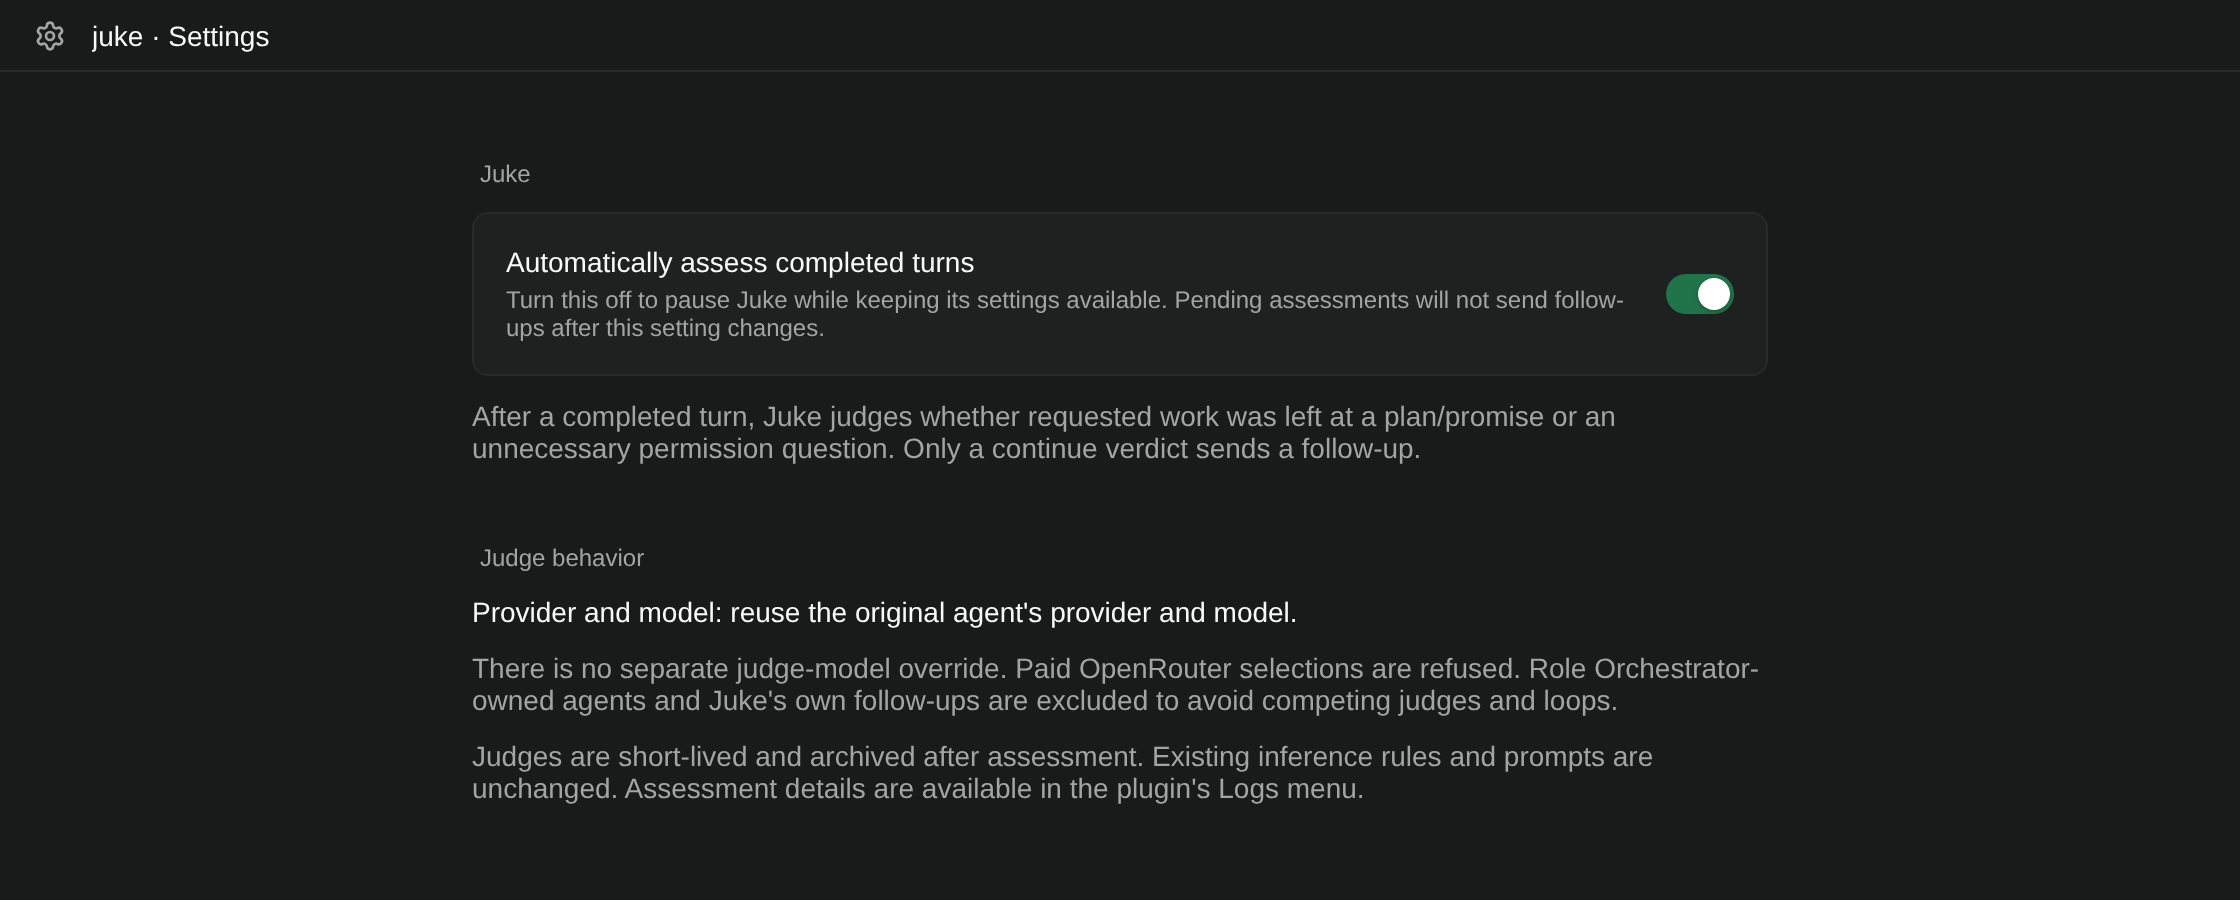
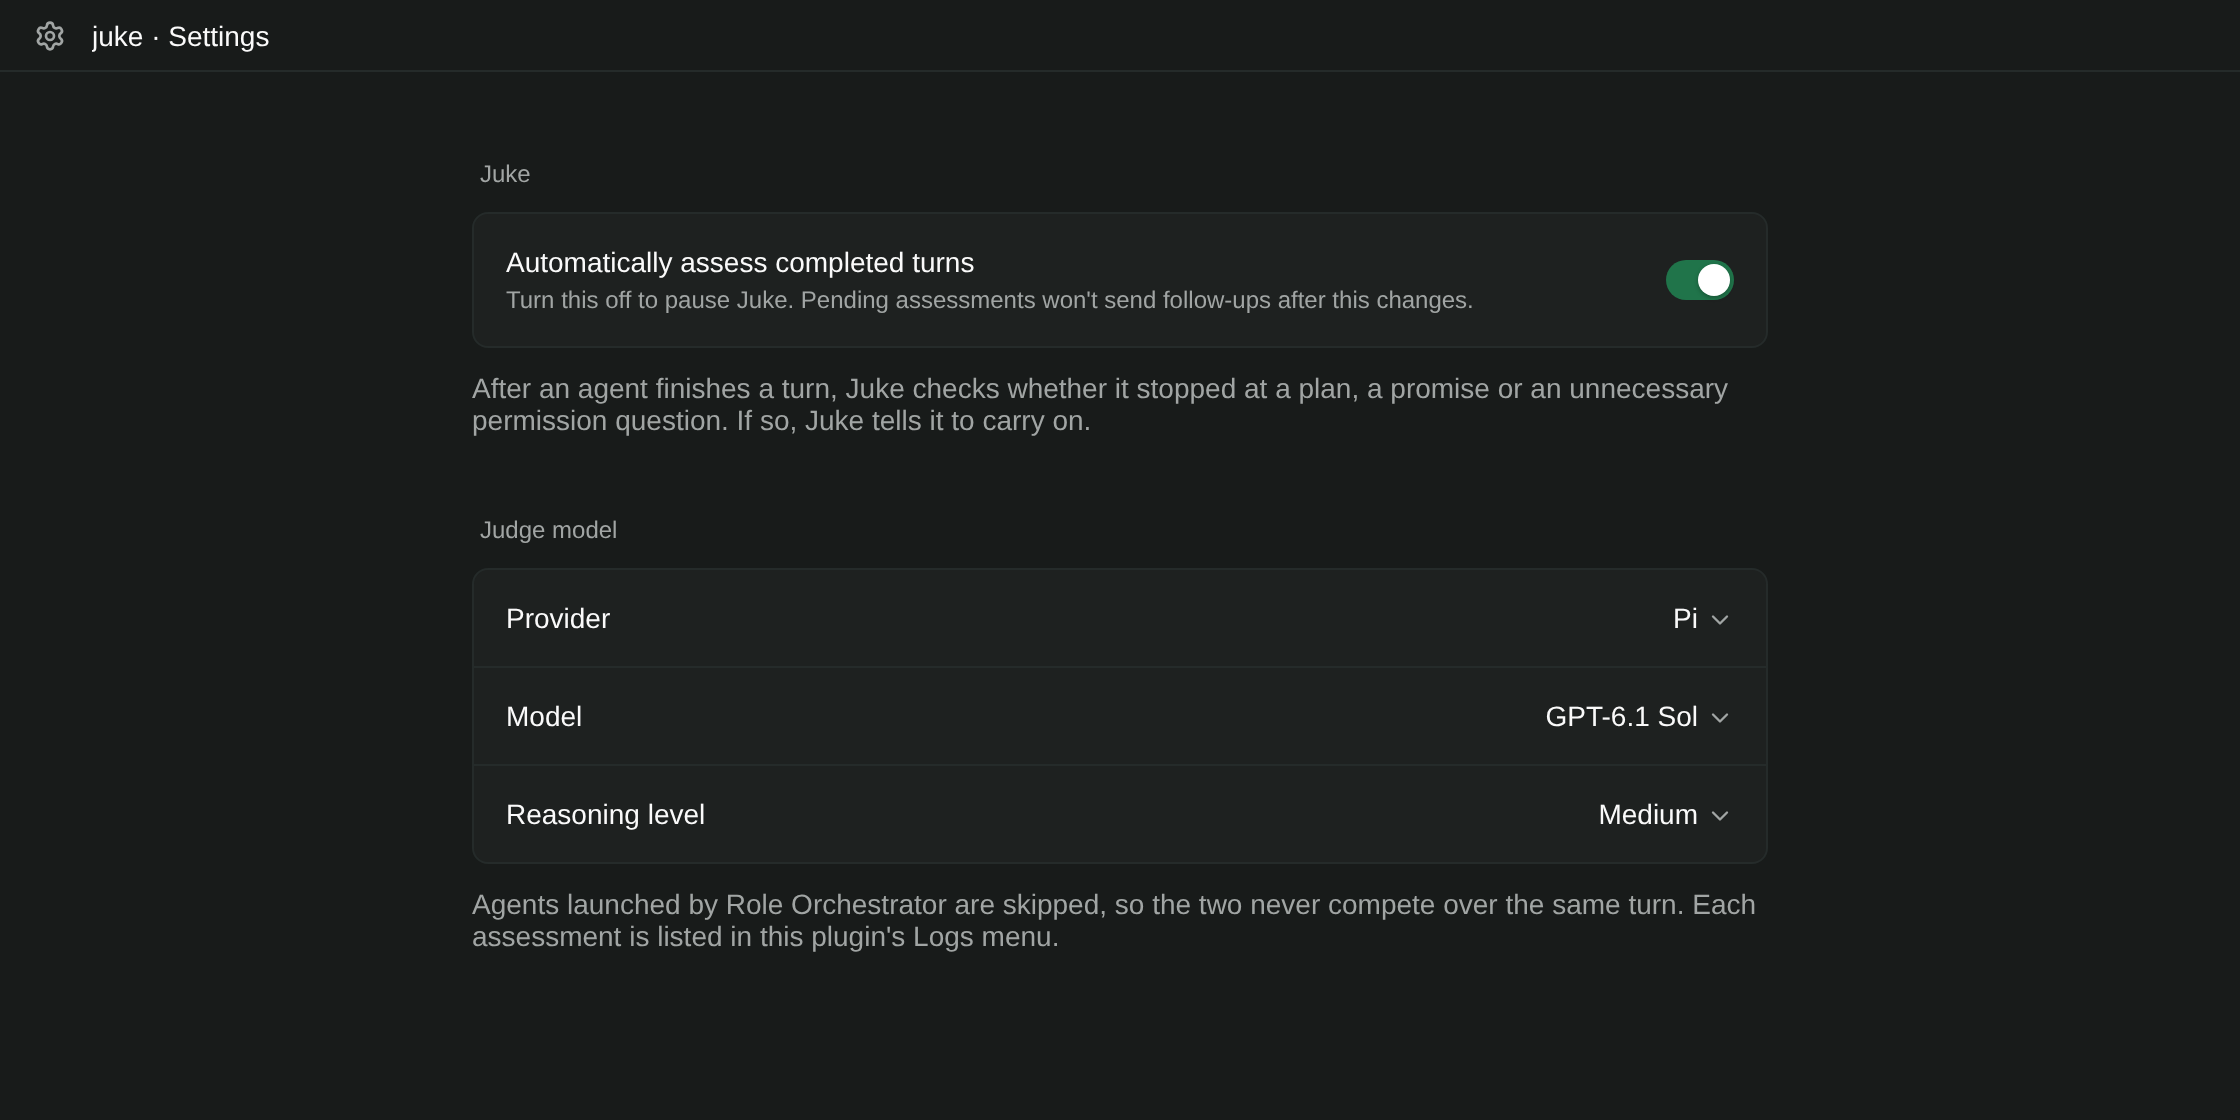
Let Juke use a chosen judge provider, model and reasoning level; trim its settings copy

diff --git a/compatibility/paseo-0.9.1/client/settings.tsx b/compatibility/paseo-0.9.1/client/settings.tsx
@@ -1,23 +1,50 @@
-import { useSettings, type PluginSurfaceProps } from "@getpaseo/plugin/client";
-import { SettingsCard, SettingsSection, SettingsSwitch } from "@getpaseo/plugin/client/ui";
+import { usePaseo, useSettings, type PluginSurfaceProps } from "@getpaseo/plugin/client";
+import { SettingsCard, SettingsSection, SettingsSelect, SettingsSwitch } from "@getpaseo/plugin/client/ui";
+import { useQuery } from "@tanstack/react-query";
 import { Text, View } from "react-native";
 import { preferences } from "../shared/settings";
 
+const SAME_AS_AGENT = "";
+const MODEL_DEFAULT = "";
+
 export function JukeSettings({ theme, layout }: PluginSurfaceProps) {
   const settings = useSettings(preferences);
+  const paseo = usePaseo();
+  const catalog = useQuery({ queryKey: ["juke", "provider-catalog"], queryFn: async () => (await paseo.providers.snapshot()).entries, staleTime: 30_000 });
   const text = { color: theme.colors.foreground }, muted = { color: theme.colors.foregroundMuted };
+  if (settings.status !== "ready") return <View style={{ padding: layout.compact ? 12 : 20 }}><Text style={text}>{settings.status === "loading" ? "Loading settings…" : settings.error}</Text></View>;
+
+  const values = settings.values;
+  const save = (patch: Partial<typeof values>) => { void settings.save({ ...values, ...patch }, settings.revision); };
+  // Keep a saved provider listed even if it is not ready right now, so the selection stays visible.
+  const providers = (catalog.data ?? []).filter(entry => entry.enabled && (entry.status === "ready" || entry.provider === values.judgeProvider));
+  const provider = providers.find(entry => entry.provider === values.judgeProvider);
+  const models = (provider?.models ?? []).filter(model => model.isSelectable !== false);
+  const model = models.find(candidate => candidate.id === values.judgeModel);
+  const sameAsAgent = values.judgeProvider === SAME_AS_AGENT;
+
   return <View style={{ padding: layout.compact ? 12 : 20, gap: 16 }}>
     <SettingsSection title="Juke">
-      {settings.status === "ready" ? <SettingsCard>
-        <SettingsSwitch label="Automatically assess completed turns" value={settings.values.enabled} disabled={settings.saving} onValueChange={enabled => { void settings.save({ ...settings.values, enabled }, settings.revision); }} hint="Turn this off to pause Juke while keeping its settings available. Pending assessments will not send follow-ups after this setting changes." />
-      </SettingsCard> : <Text style={text}>{settings.status === "loading" ? "Loading settings…" : settings.error}</Text>}
-      {!!settings.saveError && <Text accessibilityRole="alert" style={text}>{settings.saveError}</Text>}
-      <Text style={muted}>After a completed turn, Juke judges whether requested work was left at a plan/promise or an unnecessary permission question. Only a continue verdict sends a follow-up.</Text>
+      <SettingsCard>
+        <SettingsSwitch label="Automatically assess completed turns" value={values.enabled} disabled={settings.saving} onValueChange={enabled => save({ enabled })} hint="Turn this off to pause Juke. Pending assessments won't send follow-ups after this changes." />
+      </SettingsCard>
+      <Text style={muted}>After an agent finishes a turn, Juke checks whether it stopped at a plan, a promise or an unnecessary permission question. If so, Juke tells it to carry on.</Text>
     </SettingsSection>
-    <SettingsSection title="Judge behavior">
-      <Text style={text}>Provider and model: reuse the original agent's provider and model.</Text>
-      <Text style={muted}>There is no separate judge-model override. Paid OpenRouter selections are refused. Role Orchestrator-owned agents and Juke's own follow-ups are excluded to avoid competing judges and loops.</Text>
-      <Text style={muted}>Judges are short-lived and archived after assessment. Existing inference rules and prompts are unchanged. Assessment details are available in the plugin's Logs menu.</Text>
+    <SettingsSection title="Judge model">
+      <SettingsCard>
+        <SettingsSelect label="Provider" value={values.judgeProvider} disabled={settings.saving}
+          options={[{ value: SAME_AS_AGENT, label: "Same as the agent being judged" }, ...providers.map(entry => ({ value: entry.provider, label: entry.label ?? entry.provider }))]}
+          onValueChange={judgeProvider => save({ judgeProvider, judgeModel: "", judgeThinkingOptionId: null })} />
+        {sameAsAgent ? null : <SettingsSelect label="Model" value={values.judgeModel} disabled={settings.saving}
+          options={[{ value: "", label: "Choose a model" }, ...models.map(candidate => ({ value: candidate.id, label: candidate.label }))]}
+          onValueChange={judgeModel => save({ judgeModel, judgeThinkingOptionId: models.find(candidate => candidate.id === judgeModel)?.defaultThinkingOptionId ?? null })} />}
+        {sameAsAgent || !model?.thinkingOptions?.length ? null : <SettingsSelect label="Reasoning level" value={values.judgeThinkingOptionId ?? MODEL_DEFAULT} disabled={settings.saving}
+          options={[{ value: MODEL_DEFAULT, label: "Model default" }, ...model.thinkingOptions.map(option => ({ value: option.id, label: option.label }))]}
+          onValueChange={id => save({ judgeThinkingOptionId: id || null })} />}
+      </SettingsCard>
+      {!sameAsAgent && !values.judgeModel ? <Text style={text}>Choose a model. Until then, Juke uses the judged agent's model.</Text> : null}
+      {!!settings.saveError && <Text accessibilityRole="alert" style={text}>{settings.saveError}</Text>}
+      <Text style={muted}>Agents launched by Role Orchestrator are skipped, so the two never compete over the same turn. Each assessment is listed in this plugin's Logs menu.</Text>
     </SettingsSection>
   </View>;
 }

diff --git a/compatibility/paseo-0.9.1/index.server.ts b/compatibility/paseo-0.9.1/index.server.ts
@@ -1,6 +1,6 @@
 import type { PluginServerContext } from "@getpaseo/plugin/server";
 import { isRoleOrchestrated } from "./server/ownership";
-import { preferences } from "./shared/settings";
+import { configuredJudge, preferences, type JudgeChoice } from "./shared/settings";
 import {
   isJukeFollowUp,
   JukeFollowUpPrefix,
@@ -22,12 +22,14 @@ export default function contribute(server: PluginServerContext) {
     const epoch = settingsEpoch;
     const state = await settings.read();
     if (state.status !== "ready") throw new Error(`Juke settings unavailable: ${state.error}`);
-    return { enabled: state.values.enabled, revision: `${epoch}:${state.revision}` };
+    return { enabled: state.values.enabled, judge: configuredJudge(state.values), revision: `${epoch}:${state.revision}` };
   });
   return () => { unsubscribe(); stop(); };
 }
 
-export function originalAutomaticContribution(server: PluginServerContext, readSettings = async () => ({ enabled: true, revision: "default" })) {
+type JukeSettings = { enabled: boolean; judge?: JudgeChoice | null; revision: string };
+
+export function originalAutomaticContribution(server: PluginServerContext, readSettings = async (): Promise<JukeSettings> => ({ enabled: true, revision: "default" })) {
   const ownJudgeIds = new Set<string>();
   const generationByAgentId = new Map<string, number>();
   let stopped = false;
@@ -57,16 +59,16 @@ export function originalAutomaticContribution(server: PluginServerContext, readS
           const next = await readSettings();
           return !stopped && next.enabled && next.revision === preferences.revision && generationByAgentId.get(event.agent.id) === generation;
         };
-        // The SDK needs a "provider/model" selection; the hook payload carries only the
-        // bare provider, so resolve the judged agent's live model and reuse it.
         const snapshot = await paseo.agents.ref(event.agent.id).refresh();
         if (await isRoleOrchestrated(paseo, snapshot?.agent)) return;
-        const model = snapshot?.agent?.runtimeInfo?.model ?? snapshot?.agent?.model;
+        // Without a configured judge, reuse the judged agent. The SDK needs a "provider/model"
+        // selection and the hook payload carries only the bare provider, so resolve its live model.
+        const model = preferences.judge?.model ?? snapshot?.agent?.runtimeInfo?.model ?? snapshot?.agent?.model;
         if (!model) {
           console.error("[juke] no model resolved for judge", { agentId: event.agent.id });
           return;
         }
-        const selection = `${event.agent.provider}/${model}`;
+        const selection = `${preferences.judge?.provider ?? event.agent.provider}/${model}`;
         // Operator policy: a judge must not bill OpenRouter prepaid credit.
         if (!permitsJudgeSelection(selection, model)) {
           console.error("[juke] paid OpenRouter judge refused");
@@ -79,6 +81,7 @@ export function originalAutomaticContribution(server: PluginServerContext, readS
           labels: judgeLabels(event.agent.id),
           config: {
             provider: selection,
+            ...(preferences.judge?.thinkingOptionId ? { thinkingOptionId: preferences.judge.thinkingOptionId } : {}),
             systemPrompt: "You are a read-only semantic evaluator. Follow the prompt exactly and emit only its requested JSON.",
           },
         });

diff --git a/compatibility/paseo-0.9.1/shared/settings.ts b/compatibility/paseo-0.9.1/shared/settings.ts
@@ -1,7 +1,22 @@
 import { defineSettings } from "@getpaseo/plugin";
 import { z } from "zod";
 
+// An empty judge provider means "judge with the same provider and model as the agent being judged".
 export const preferences = defineSettings({
   id: "juke", scope: "host", version: 1,
-  schema: z.object({ enabled: z.boolean().default(true) }),
+  schema: z.object({
+    enabled: z.boolean().default(true),
+    judgeProvider: z.string().default(""),
+    judgeModel: z.string().default(""),
+    judgeThinkingOptionId: z.string().nullable().default(null),
+  }),
 });
+
+export type JudgeChoice = { provider: string; model: string; thinkingOptionId: string | null };
+
+/** The configured judge, or null when Juke should reuse the judged agent's provider and model. */
+export function configuredJudge(values: { judgeProvider: string; judgeModel: string; judgeThinkingOptionId: string | null }): JudgeChoice | null {
+  return values.judgeProvider && values.judgeModel
+    ? { provider: values.judgeProvider, model: values.judgeModel, thinkingOptionId: values.judgeThinkingOptionId }
+    : null;
+}

diff --git a/README.md b/README.md
@@ -12,18 +12,20 @@
 
 </div>
 
-An agent can finish its response while leaving the requested work unfinished. Juke asks a short-lived judge to review completed turns, then sends a follow-up only when the assessment calls for continuation.
+🛑 Agents love to stop at *"Here's my plan…"* or *"Want me to go ahead?"* when you already asked them to do the work.
+
+🧑⚖ Juke catches that. After every finished turn, a short-lived judge reads what you asked and what the agent actually did. If the agent stopped short, Juke sends it back to work. If not, it stays out of the way.
 
 ## Features
 
 | Feature | What you get |
 | --- | --- |
-| Semantic review | A model evaluates intent and follow-through rather than a keyword score |
-| Two continuation cases | Unperformed work and unnecessary permission questions |
-| Clear boundaries | Genuine information questions, real blockers, and unauthorized actions stay separate |
-| Scoped judges | The judged agent's provider/model is reused; judges are archived afterward |
-| Loop protection | Stale verdicts, recursive follow-ups, and role-owned runs are excluded |
-| Host settings | Pause automatic assessments without removing the plugin UI |
+| 🧠 Semantic review | A model judges intent and follow-through, not a keyword score |
+| 🎯 Two continuation cases | Unperformed work and unnecessary permission questions |
+| 🚧 Clear boundaries | Real questions, genuine blockers and unauthorized actions are left alone |
+| ⚖ Your choice of judge | Reuse the judged agent's model, or pick a provider, model and reasoning level |
+| 🔁 Loop protection | Stale verdicts, Juke's own follow-ups and Role Orchestrator runs are skipped |
+| ⏸ One-switch pause | Turn automatic assessments off without removing the plugin |
 
 ## How it fits
 
@@ -49,9 +51,9 @@ npm run typecheck
 paseo plugin install "$PWD"
 ```
 
-Open **Settings → Plugins → Juke → Settings** and choose whether to automatically assess completed turns. Assessments start separate judge agents and use the selected provider; model usage may incur costs. The compatibility snapshot retains its paid-OpenRouter refusal.
+Open **Settings → Plugins → Juke → Settings**. Automatic assessment is on by default. Under **Judge model**, keep *Same as the agent being judged* or choose a provider, model and reasoning level. Every assessment runs a separate judge agent, so it uses model quota. Each verdict appears in the plugin's **Logs** menu.
 
-![Juke settings in Paseo: the automatic assessment switch and judge behavior](docs/media/settings.png)
+![Juke settings in Paseo: the automatic assessment switch and the judge provider, model and reasoning level](docs/media/settings.png)
 
 ## Compatibility
 

diff --git a/compatibility/paseo-0.9.1/README.md b/compatibility/paseo-0.9.1/README.md
@@ -1,6 +1,6 @@
 # Juke
 
-Juke is an inference-first Paseo plugin. After a completed agent turn, it launches a short-lived judge using the same provider. The judge semantically decides whether the agent stopped early in one of two ways:
+Juke is an inference-first Paseo plugin. After a completed agent turn, it launches a short-lived judge, by default on the judged agent's provider and model. The judge semantically decides whether the agent stopped early in one of two ways:
 
 - **unperformed-work**: the user wanted work and the agent ended its turn with a plan, promise, description, or status answer instead of doing it. This includes question-shaped requests and completion checks on previously requested work ("Did you fill in all the data?" → "Not yet; here's what's missing"). Genuine information-only or status-only questions are left alone.
 - **needless-permission**: the agent ended its turn asking "want me to…?" about a next step it clearly already knows, when that step serves a goal the user already stated. Legitimate questions are left alone: destructive, externally visible, or out-of-scope steps; real preference decisions; optional extras; and cases where the user said to hold off.
@@ -17,7 +17,7 @@ Completed assessments log both `continue` and `leave-alone`, with the agent, jud
 
 Open **Settings → Plugins → Juke → ⋯ → Settings**, or **Juke settings** in the Command Center. **Automatically assess completed turns** defaults on and saves immediately. Turn it off to pause assessments without disabling the plugin UI. Changing it invalidates pending assessments, even if it is subsequently turned back on; stale verdicts cannot send follow-ups. Existing judges are archived when their outstanding wait completes.
 
-Previously Juke had no user-facing settings. Provider/model selection remains automatic (the judged agent's live selection); no new model override or inference thresholds were added. Role Orchestrator exclusions, recursion guards, prompts, and the paid-OpenRouter refusal remain unchanged.
+**Judge model** chooses who judges. *Same as the agent being judged* (the default) reuses the judged agent's live provider and model. Choosing a provider and model runs every judge on that model, with the optional reasoning level. Selections save immediately. A provider without a chosen model still falls back to the judged agent's model. Paid OpenRouter judges are refused either way.
 
 ## Development
 

diff --git a/docs/REFERENCE.md b/docs/REFERENCE.md
@@ -1,6 +1,6 @@
 # Juke
 
-Juke is an inference-first Paseo plugin. After a completed agent turn, it launches a short-lived judge using the same provider. The judge semantically decides whether the agent stopped early in one of two ways:
+Juke is an inference-first Paseo plugin. After a completed agent turn, it launches a short-lived judge, by default on the judged agent's provider and model (the 0.9.1 snapshot can be set to a fixed judge model). The judge semantically decides whether the agent stopped early in one of two ways:
 
 - **unperformed-work**: the user wanted work and the agent ended its turn with a plan, promise, description, or status answer instead of doing it. This includes question-shaped requests and completion checks on previously requested work ("Did you fill in all the data?" → "Not yet; here's what's missing"). Genuine information-only or status-only questions are left alone.
 - **needless-permission**: the agent ended its turn asking "want me to…?" about a next step it clearly already knows, when that step serves a goal the user already stated. Legitimate questions are left alone: destructive, externally visible, or out-of-scope steps; real preference decisions; optional extras; and cases where the user said to hold off.
